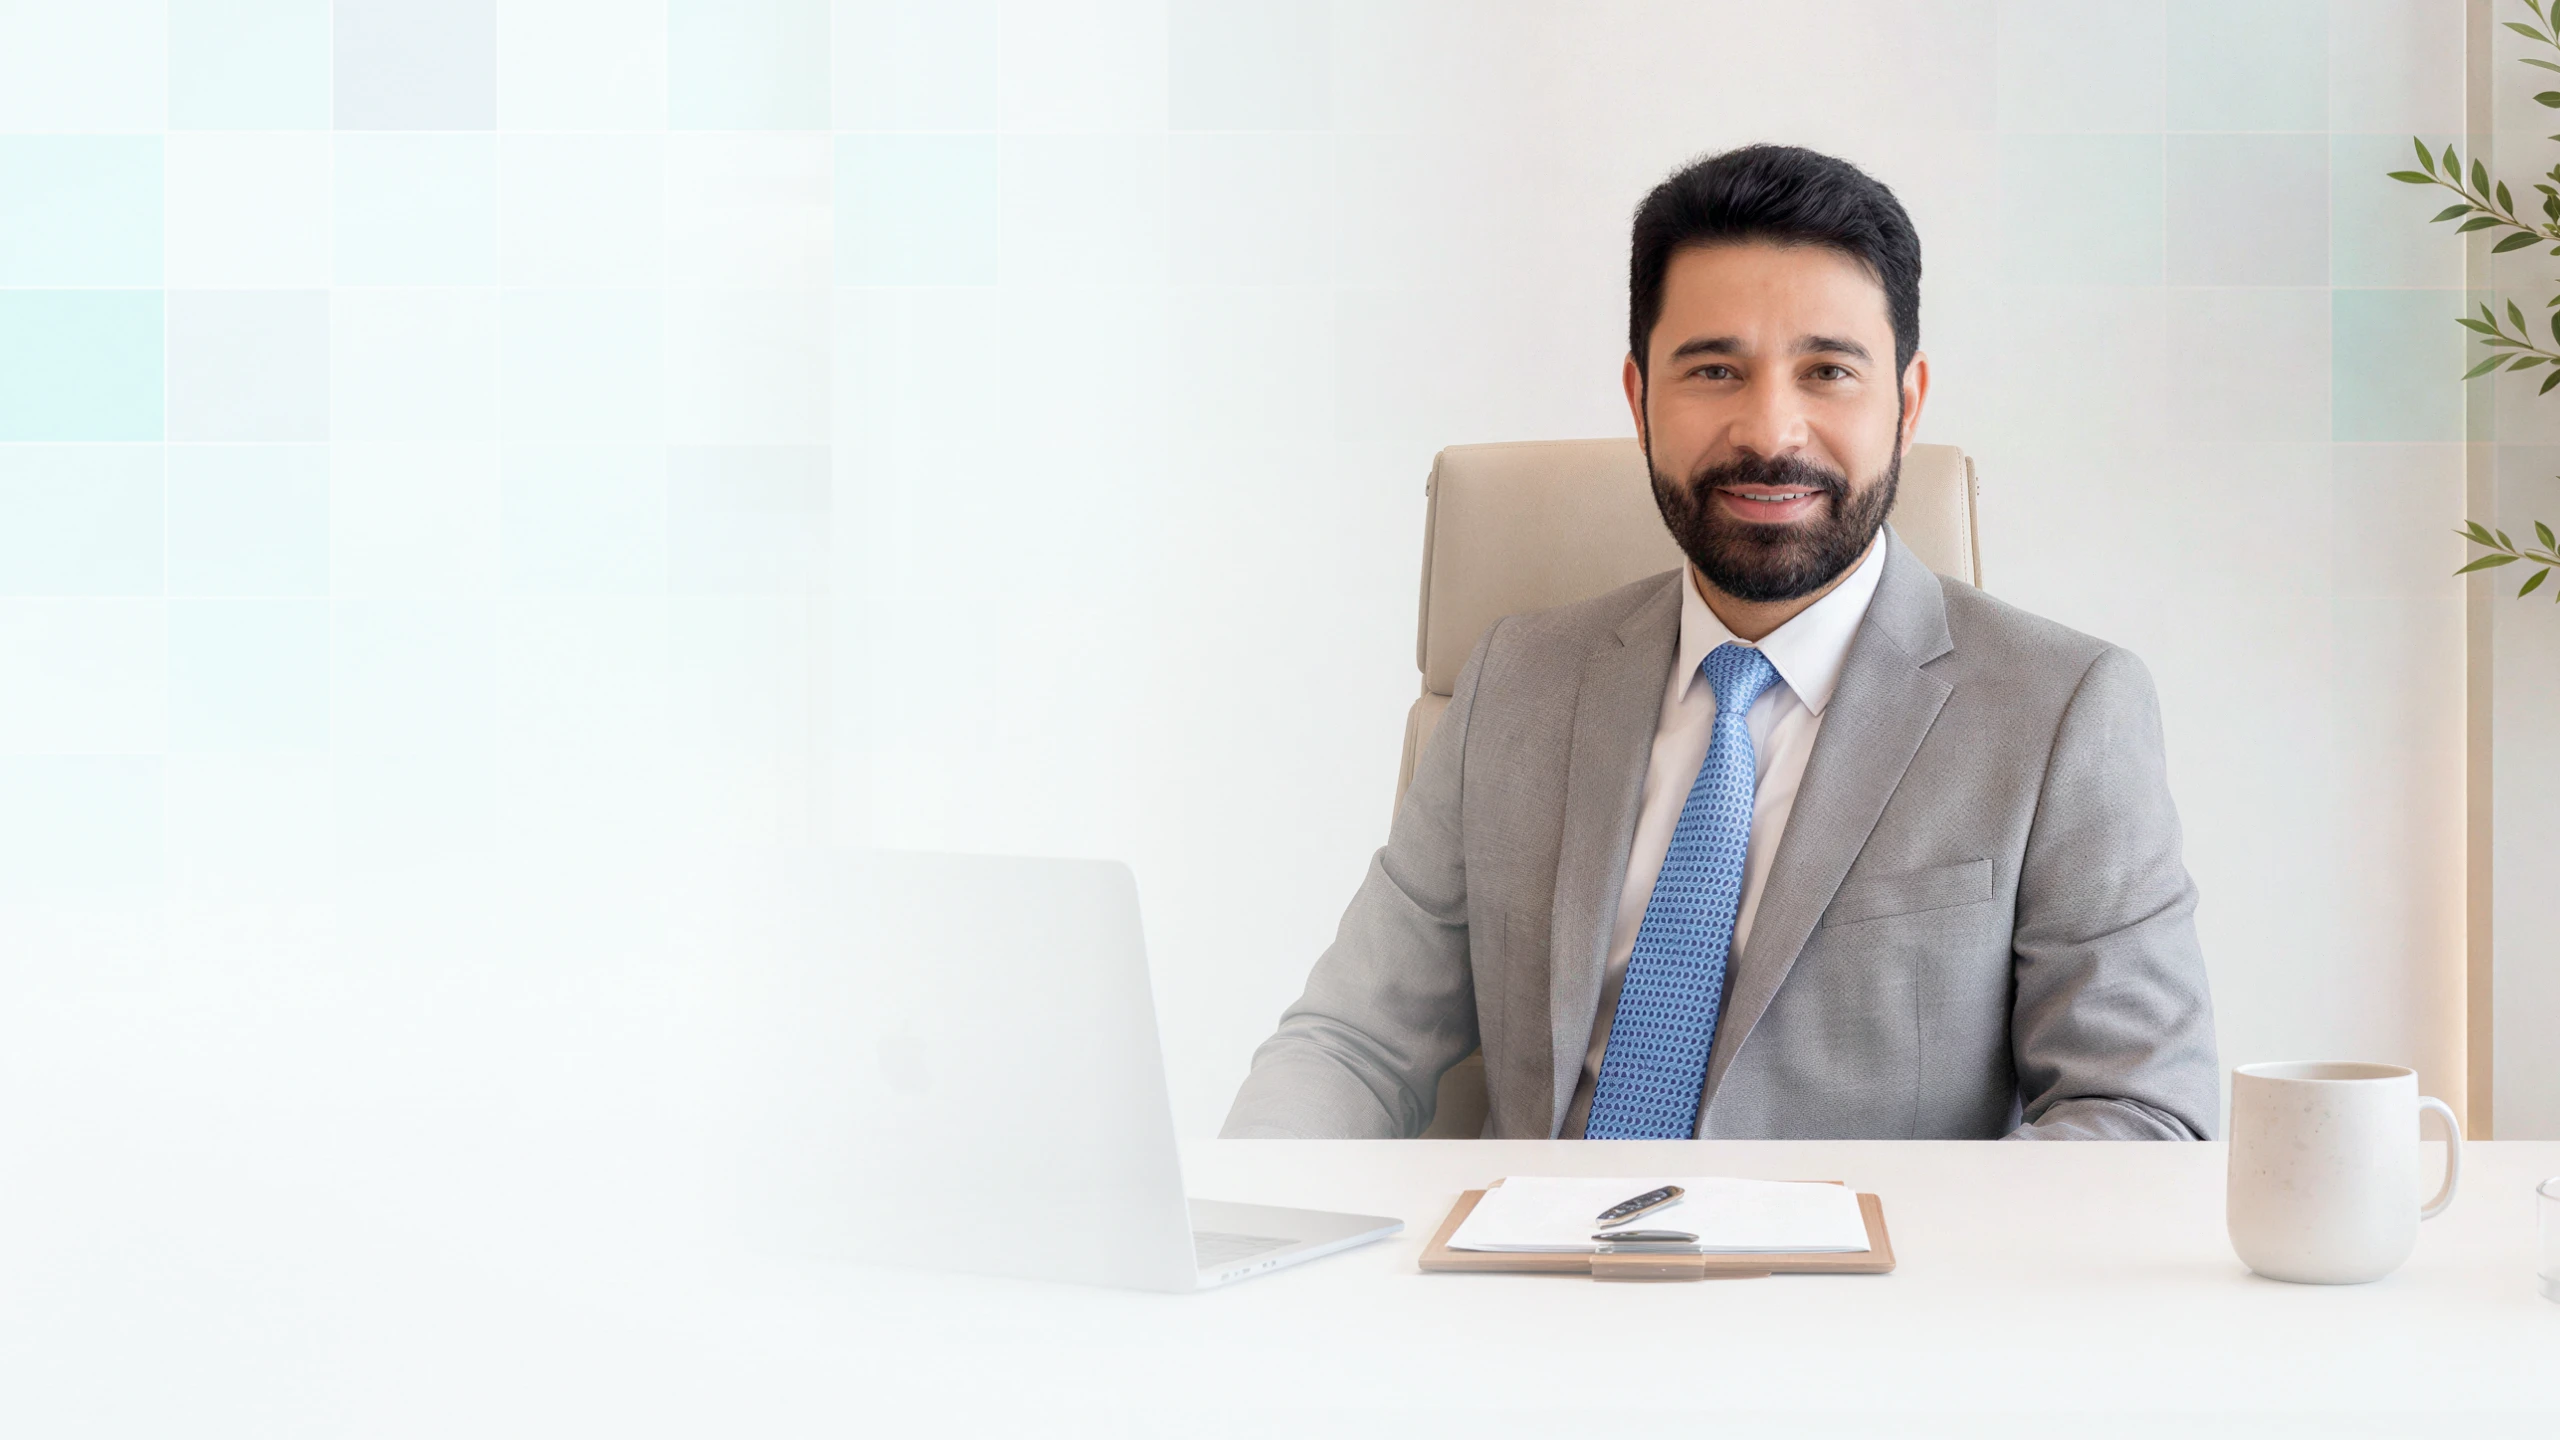
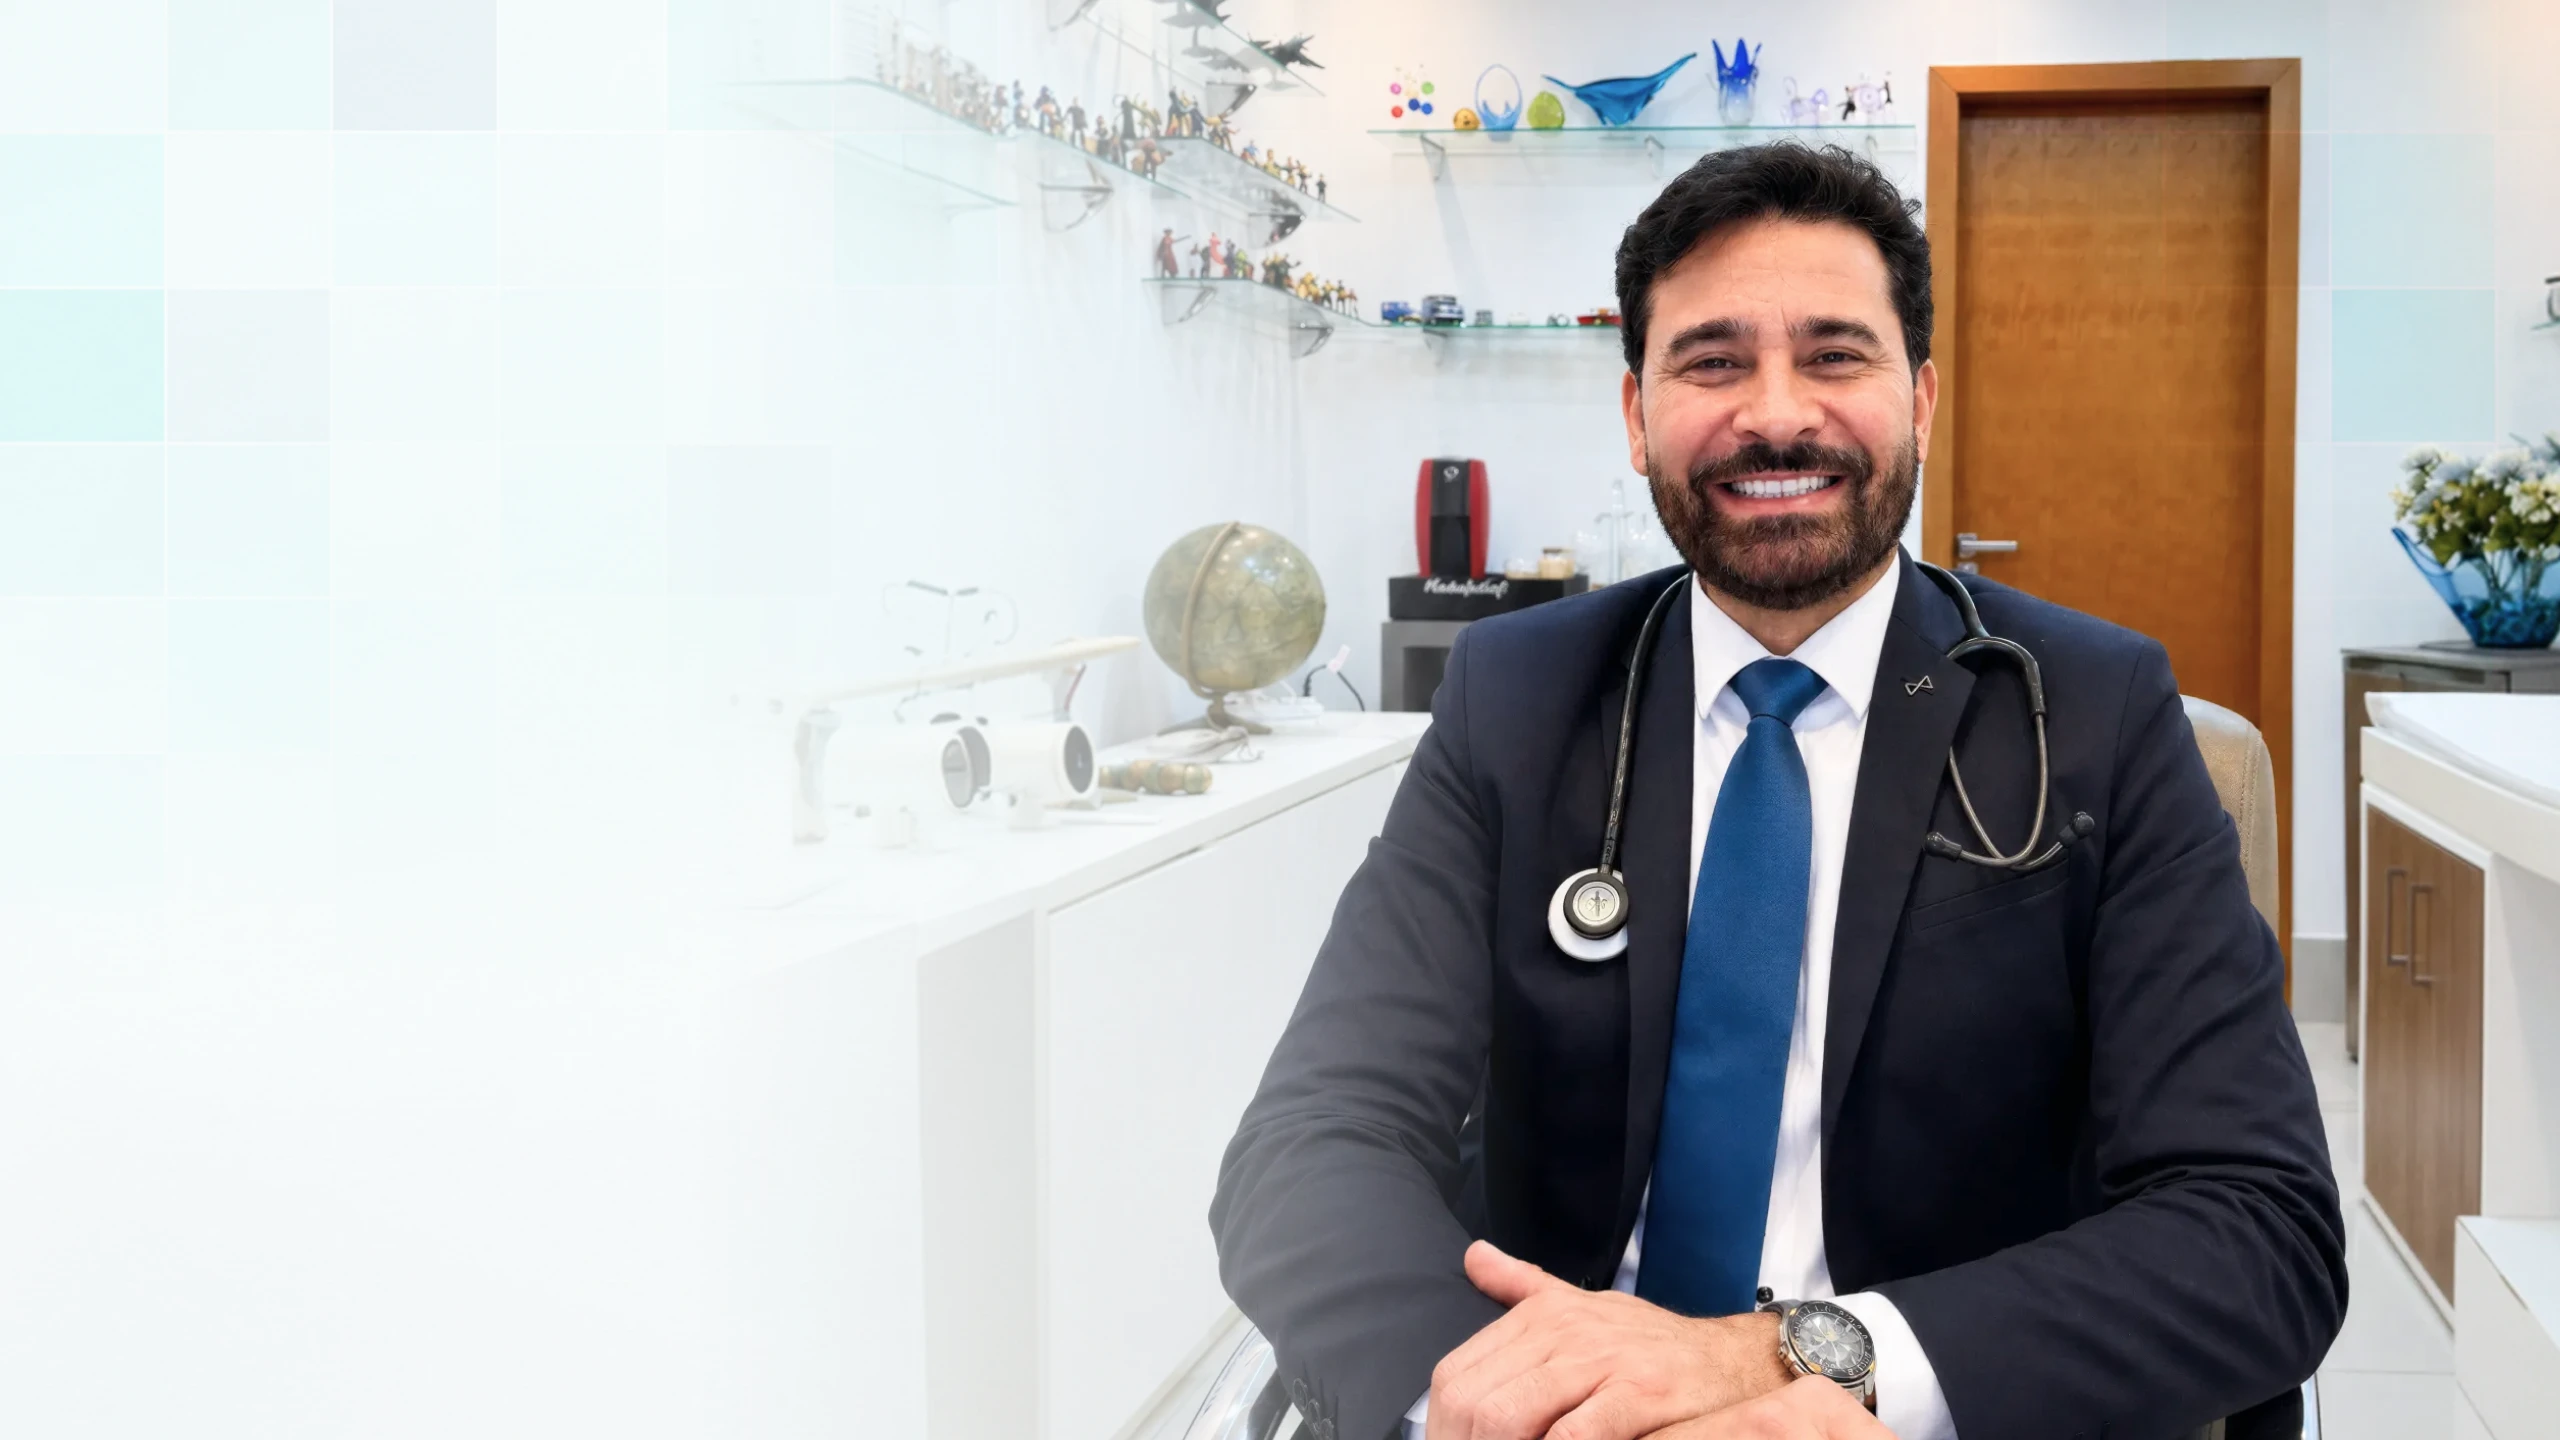
Novas fotos do consultório e corte da lâmina abaixo das mãos (mobile e tablet)

diff --git a/index.html b/index.html
@@ -22,7 +22,7 @@
     --maxw:      1160px;
     /* Mobile: até onde a imagem aparece antes da lâmina de vidro começar.
        Ajuste este valor para subir/descer o corte reto. */
-    --sheet-top: 113vw; /* em vw para acompanhar a foto: 113vw ≈ borda da mesa, logo abaixo do tronco */
+    --sheet-top: 153vw; /* em vw para acompanhar a foto: 153vw ≈ logo abaixo das mãos */
   }
 
   * { box-sizing: border-box; }
@@ -469,7 +469,7 @@
 
   /* ---------- TABLET (768–1023px): imagem própria 3:4, lâmina full-bleed, conteúdo centralizado ---------- */
   @media (min-width: 768px) and (max-width: 1023px) {
-    :root { --sheet-top: 83vw; } /* 83vw ≈ borda da mesa na imagem do tablet */
+    :root { --sheet-top: 117vw; } /* 117vw ≈ logo abaixo das mãos na imagem do tablet */
     .jm-bg-mobile {
       height: calc(100vw * 2048 / 1536);
       background-image: url('fundo_tablet.webp');
